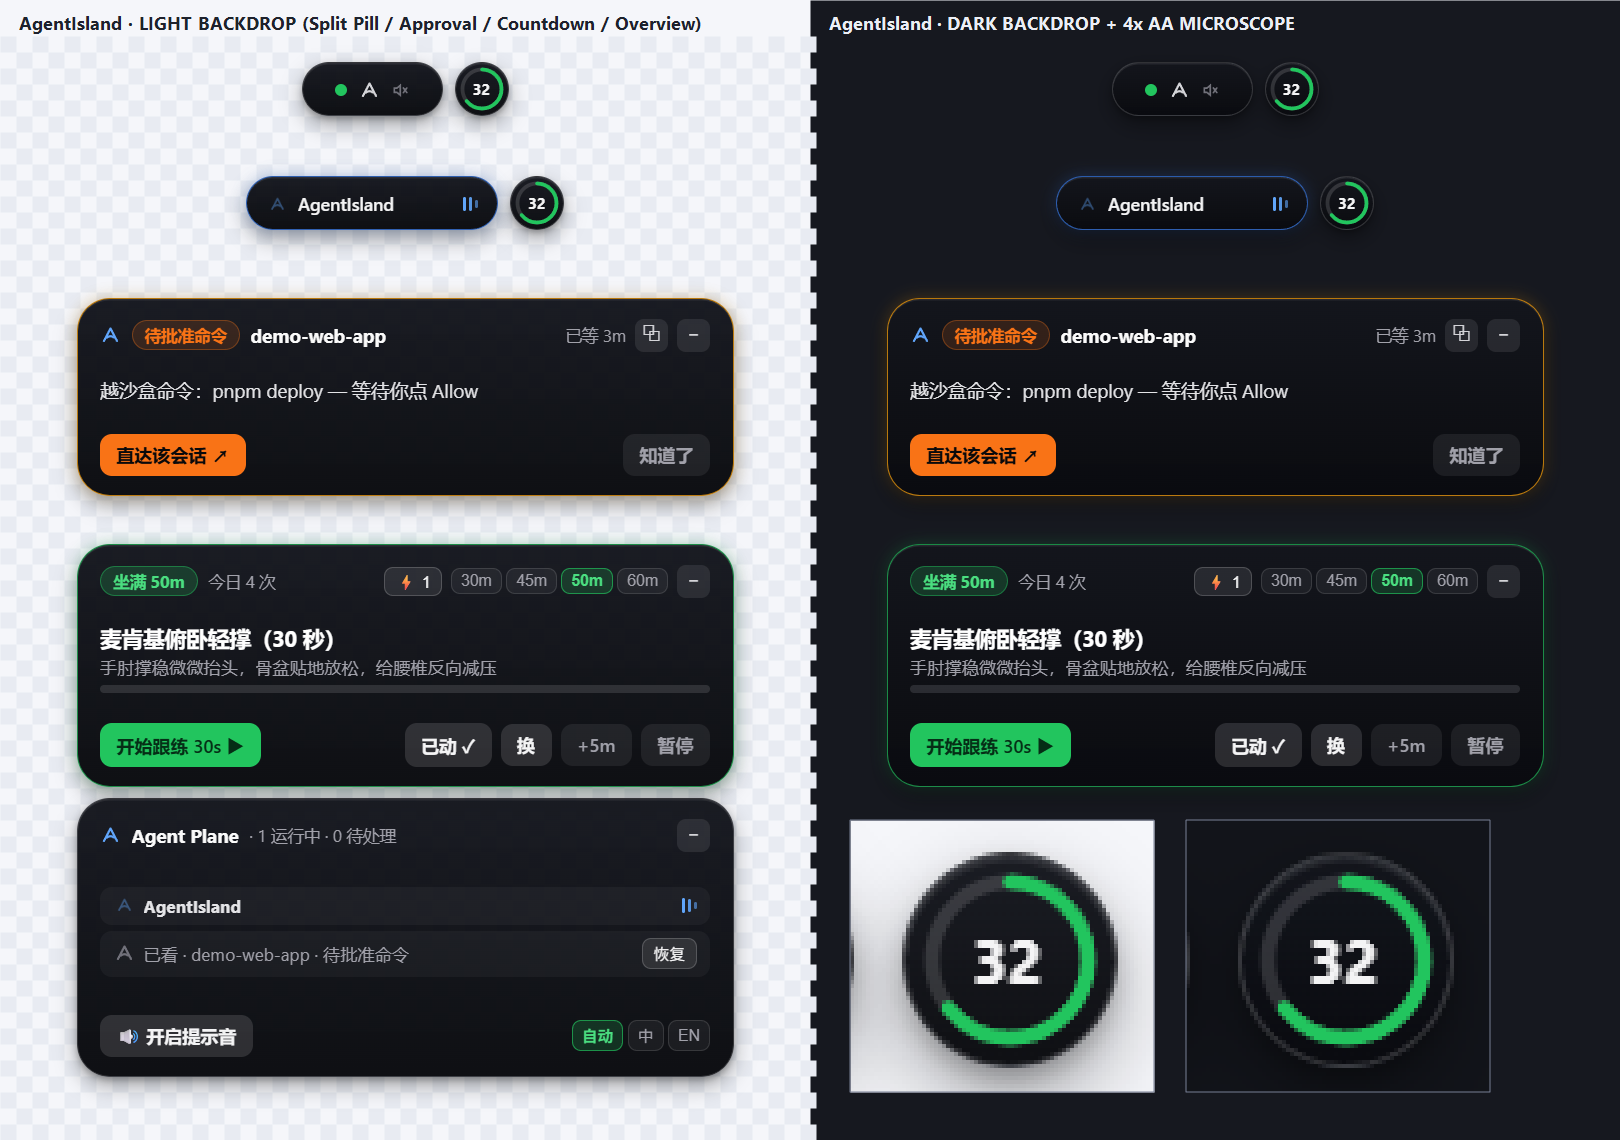
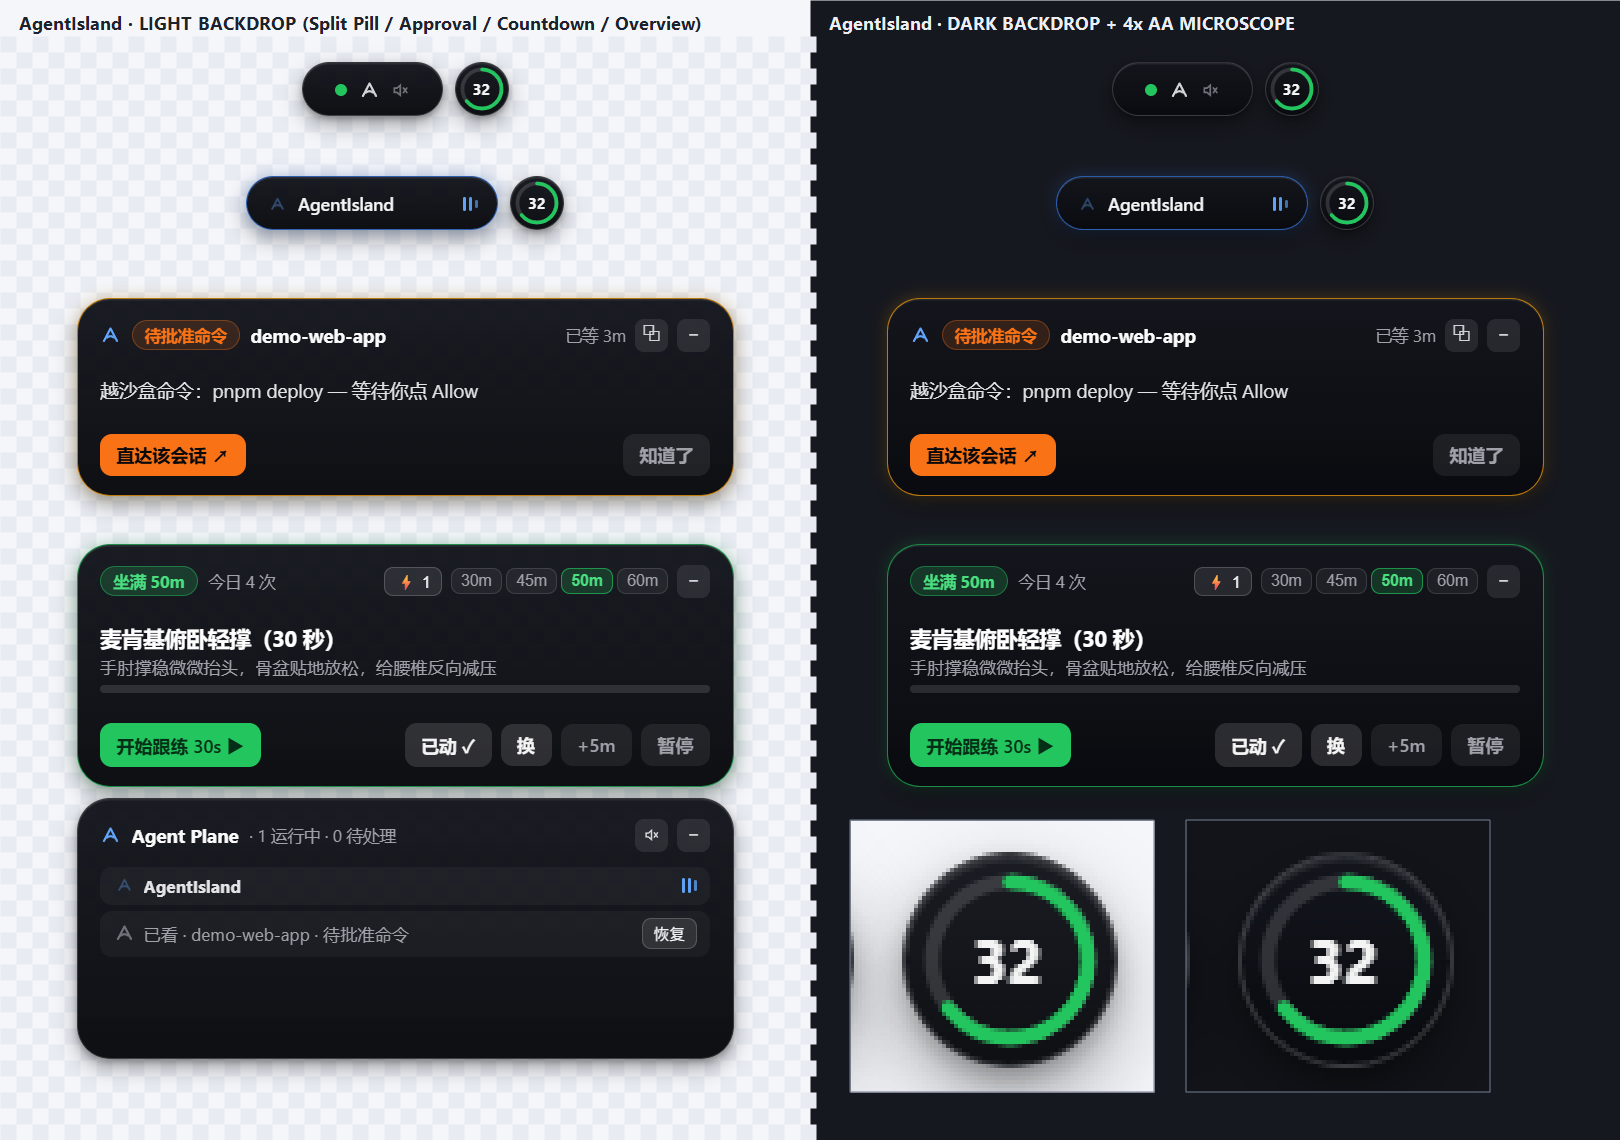
fix: keep language toggle in context menu only and float menu inside 290px canvas to prevent clipping

Changed region(s): [[0.0309, 0.8904, 0.463, 0.9825], [0.0617, 0.7675, 0.2469, 0.8596], [0.4012, 0.7675, 0.4321, 0.8596]]

diff --git a/ui/index.html b/ui/index.html
@@ -562,14 +562,18 @@
       font-weight: 700;
     }
 
-    /* Inline Right-Click Context Menu */
+    /* Inline Right-Click Context Menu (positioned inside fixed 290px canvas so it NEVER clips even when card is expanded) */
     .ctx-menu {
-      margin-top: 8px;
+      position: fixed;
+      top: 58px;
+      left: 50%;
+      transform: translateX(-50%);
+      z-index: 30;
       width: 248px;
       border-radius: 14px;
-      background: rgba(16, 18, 24, 0.98);
-      border: 1px solid rgba(255, 255, 255, 0.16);
-      box-shadow: 0 8px 18px rgba(0, 0, 0, 0.42);
+      background: rgba(16, 18, 24, 0.985);
+      border: 1px solid rgba(255, 255, 255, 0.2);
+      box-shadow: 0 10px 22px rgba(0, 0, 0, 0.52), 0 0 0 1px rgba(0, 0, 0, 0.35);
       padding: 6px;
       display: none;
       flex-direction: column;
@@ -870,7 +874,7 @@
     function computeMainSize(view) {
       if (view === "agy") return { w: 438, h: state.toastText ? 148 : 132, r: 22 };
       if (view === "health") return { w: 438, h: 162, r: 22 };
-      if (view === "overview") return { w: 438, h: 186, r: 22 };
+      if (view === "overview") return { w: 438, h: 174, r: 22 };
       if (state.alerts.length > 0) return { w: 196, h: 36, r: 18 };
       if (state.working.length > 0) return { w: 168, h: 36, r: 18 };
       return { w: state.muted ? 94 : 78, h: 36, r: 18 };
@@ -1443,13 +1447,7 @@
             </div>
           </div>`;
       } else if (state.view === "overview") {
-        // Pure Agent Plane — 100% focused on AI agents, sessions, alerts, history, sound & language (zero posture clutter!)
-        const langChips = [
-          { k: "auto", t: isEn() ? "Auto" : "自动" },
-          { k: "zh", t: "中" },
-          { k: "en", t: "EN" }
-        ].map(x => `<button class="int-chip ${state.language === x.k ? 'active' : ''}" data-action="set-language" data-val="${x.k}">${x.t}</button>`).join("");
-
+        // Pure Agent Plane — focused strictly on AI sessions, alerts & history (language lives only in right-click menu)
         let listHtml = "";
         let rowCount = 0;
         if (state.alerts.length > 0) {
@@ -1487,16 +1485,20 @@
           }
         }
         if (!listHtml) {
-          listHtml = `<div class="ov-item"><span class="meta-text">${isEn() ? "All agents idle — waiting for hooks from Antigravity, Claude, Codex" : "全部 Agent 待命 · 监听 Antigravity / Claude / Codex"}</span></div>`;
+          listHtml = `<div class="ov-item"><span class="meta-text">${isEn() ? "All agents idle — listening to Antigravity, Claude & Codex" : "全部 Agent 待命 · 监听 Antigravity / Claude / Codex"}</span></div>`;
         }
 
         const planeStats = isEn()
           ? `${state.working.length} active · ${state.alerts.length} pending`
           : `${state.working.length} 运行中 · ${state.alerts.length} 待处理`;
 
-        renderKey = `ov-${state.resolvedLang}-${state.language}-${state.alerts.length}-${state.working.length}-${state.history.length}-${state.muted}`;
+        const muteIconSvg = state.muted
+          ? `<svg viewBox="0 0 14 14" width="12" height="12" fill="none" stroke="currentColor" stroke-width="1.4" stroke-linecap="round"><path d="M2 5.2h2.2L7 2.8v8.4L4.2 8.8H2z"/><line x1="9.6" y1="5" x2="12.6" y2="9"/><line x1="12.6" y1="5" x2="9.6" y2="9"/></svg>`
+          : `<svg viewBox="0 0 14 14" width="12" height="12" fill="none" stroke="currentColor" stroke-width="1.4" stroke-linecap="round"><path d="M2 5.2h2.2L7 2.8v8.4L4.2 8.8H2z"/><path d="M9.4 5a2.6 2.6 0 0 1 0 4"/><path d="M11 3.4a4.8 4.8 0 0 1 0 7.2"/></svg>`;
+
+        renderKey = `ov-${state.resolvedLang}-${state.alerts.length}-${state.working.length}-${state.history.length}-${state.muted}`;
         html = `
-          <div class="card${enterCls}">
+          <div class="card${enterCls}" style="justify-content:flex-start;gap:10px;">
             <div class="card-top">
               <div class="card-top-left">
                 <span class="brand-icon">${getBrandGlyph("antigravity", "#60a5fa")}</span>
@@ -1505,16 +1507,11 @@
               </div>
               <div class="card-top-right">
                 ${state.alerts.length > 0 ? `<button class="switch-chip" data-action="agy-dismiss-all">${isEn() ? "Clear All" : "全部已读"}</button>` : ""}
+                <button class="icon-btn" data-action="toggle-mute" title="${state.muted ? (isEn() ? 'Unmute' : '开启提示音') : (isEn() ? 'Mute' : '静音')}">${muteIconSvg}</button>
                 <button class="icon-btn" data-action="collapse" title="${isEn() ? 'Collapse' : '收起'}">−</button>
               </div>
             </div>
             <div class="ov-list">${listHtml}</div>
-            <div class="actions">
-              <div class="btn-group">
-                <button class="btn btn-secondary" data-action="toggle-mute">${state.muted ? (isEn() ? '🔊 Unmute' : '🔊 开启提示音') : (isEn() ? '🔕 Mute' : '🔕 静音')}</button>
-              </div>
-              <div class="int-chips">${langChips}</div>
-            </div>
           </div>`;
       }
 

diff --git a/src/AgentIsland.cs b/src/AgentIsland.cs
@@ -2822,11 +2822,14 @@ namespace AgentIsland
                     && l3Snap.Contains("\"view\":\"agy\"") && l3Snap.Contains("\"autoCollapseMs\":30000");
                 record("ux_notification_tiering_l1_l2_l3", tierRuleOk, "L1=" + l1Snap + " | L2=" + l2Snap + " | L3=" + l3Snap);
 
-                // (f) Outside click closes BOTH open context menu AND expanded card cleanly!
+                // (f) Outside click closes BOTH open context menu AND expanded card cleanly; AND expanded ctx menu MUST NOT clip outside canvas!
                 SendCommandToUi("open_overview");
                 await Task.Delay(150);
                 await _coreWebView.ExecuteScriptAsync("document.getElementById('main-island').dispatchEvent(new MouseEvent('contextmenu',{bubbles:true,cancelable:true}))");
                 await Task.Delay(150);
+                string ctxGeom = UnquoteJsString(await _coreWebView.ExecuteScriptAsync("JSON.stringify((()=>{const r=document.getElementById('ctx-menu').getBoundingClientRect();return {top:Math.round(r.top),bottom:Math.round(r.bottom),winH:window.innerHeight,fits:r.height>40 && r.bottom <= window.innerHeight - 16};})())"));
+                record("ux_ctx_menu_never_clipped_when_expanded", ctxGeom.Contains("\"fits\":true"), ctxGeom);
+
                 string beforeOutside = UnquoteJsString(await _coreWebView.ExecuteScriptAsync("JSON.stringify(window.__uxDebug())"));
                 SendCommandToUi("outside_click");
                 await Task.Delay(180);
